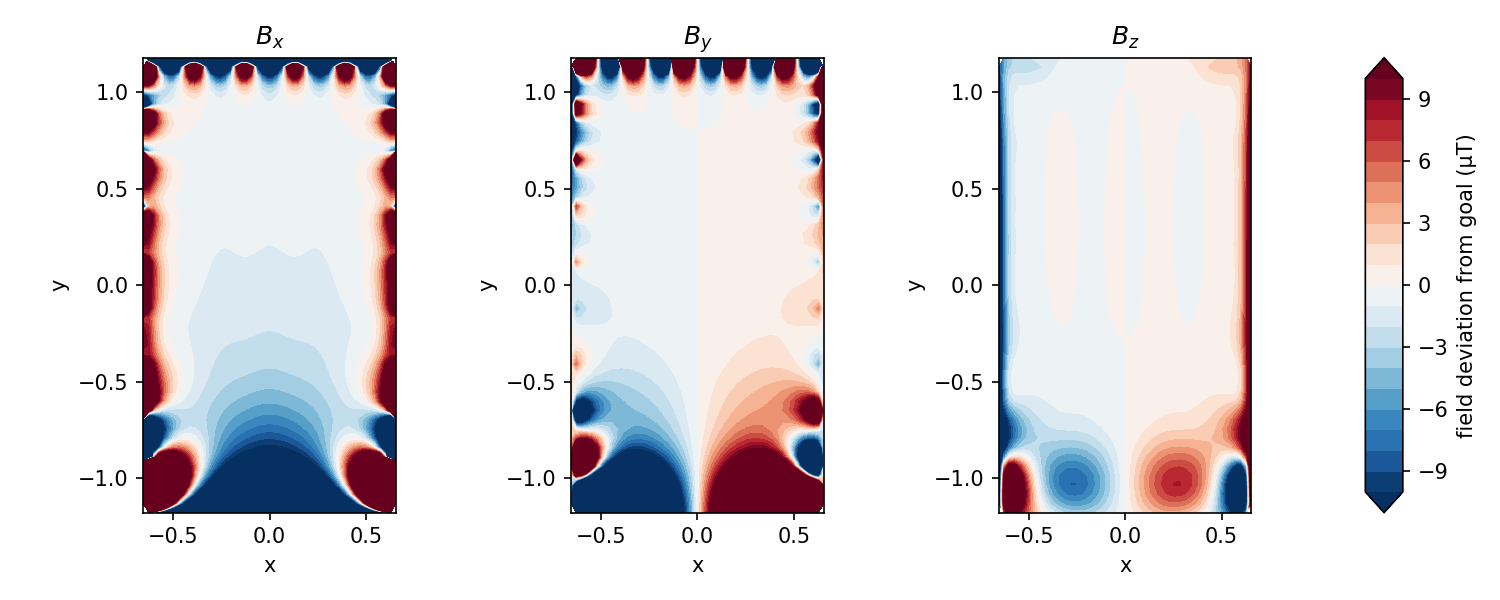
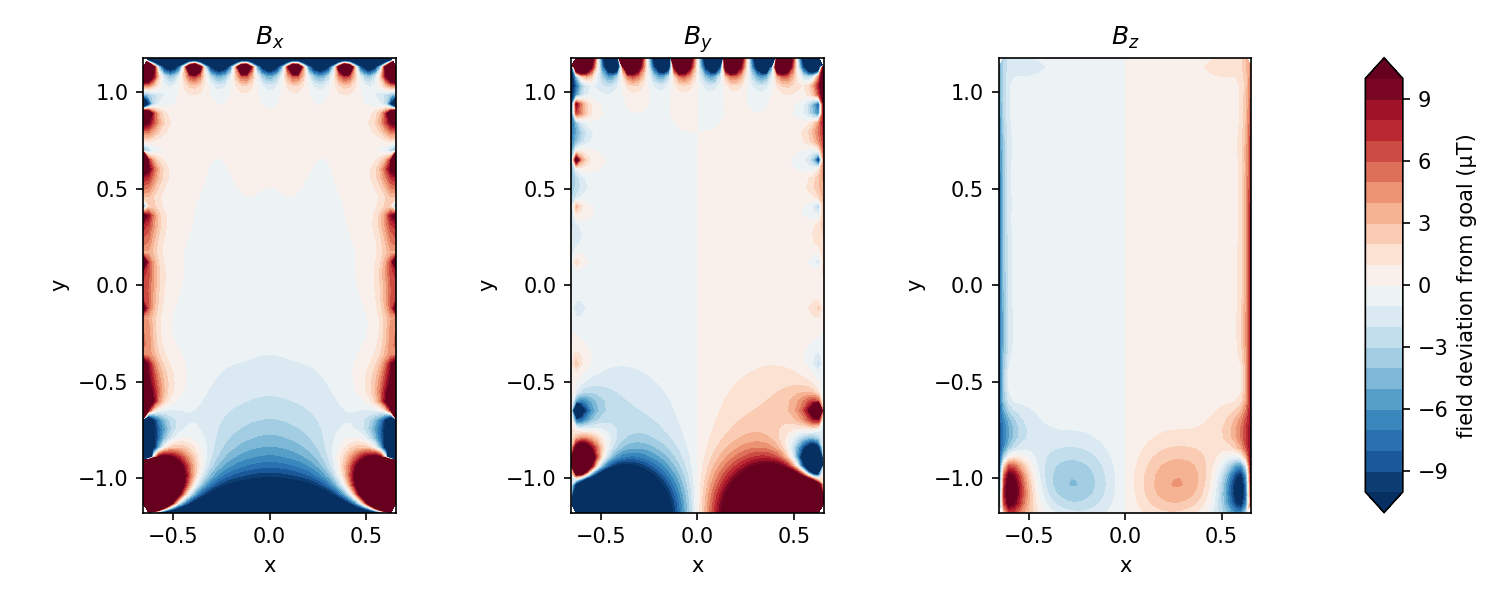
Update the open-design plots and text.

diff --git a/Chapters/sfc_prototype.tex b/Chapters/sfc_prototype.tex
@@ -312,47 +312,68 @@ Aside from the obvious---increasing the bit depth of the DACs---this limit can b
 
 
 \section{Open-design cage}
-The disadvantage of the first-iteration design, pictured in Fig.\,\ref{fig:prototype_photo_inside} was that the cage is fully closed, making putting anything inside, or taking outside, quite a challenge. In particular, one of the areas the active magnetic field compensation system prototype could be used to investigate is the effects of a $\upmu$-metal shield inserted into it.
+The disadvantage of the first-iteration design, pictured in Fig.\,\ref{fig:prototype_photo_inside}, was that the cage was fully closed, making putting anything inside, or taking outside, essentially impossible. In particular, one of the areas the active magnetic field compensation system prototype could be used to investigate is the effects of a $\upmu$-metal shield, which would need to be inserted into it.
 
-Three designs with the inside accessible were considered. In the first, connectors could be built in along edges of one of the faces (twenty, if the face is one of the small ones). To access the inside the connectors would have to be disconnected and then the face removed. The connectors would have to have as much as 30 pins, each connected to at least \SI{1}{\milli\meter} wire. 
-\marginpar{D-subminiature connectors with soldering contact were considered for this purpose. Two per edge.} The process of winding a coil would be much to much.
-Adding more coils would mean exchanging all connectors.
+% \note{Do I really find it necessary to describe the three possibilities that I considered?}
 
-The second design featured a removable face without the need for connectors. The wires laid on one face would be separate from those on the rest of the structure. This would inevitably lead to some effective current cancellation along the edges of the removable face. \note{Explain why}.
+% Three designs with the inside accessible were considered.
+% \marginpar{D-subminiature connectors with soldering contact were considered for this purpose. Two per edge.} The process of winding a coil would be much to much.
+% In the first, connectors could be built in along edges of one of the faces (twenty, if the face is one of the small ones). To access the inside the connectors would have to be disconnected and then the face removed. The connectors would have to have as much as 30 pins, each connected to at least \SI{1}{\milli\meter} thick wire. The main disadvantage of this solution would have been considerable effort in terms of soldering.
+% % Adding more coils would mean exchanging all connectors.
+% The second design would feature a removable face without the need for connectors. The wires laid on one face would be separate from those on the rest of the structure. Along the edge where the face would be separated two cable channels would run in parallel next to each other, one belonging to the removable face. This would inevitably lead to some effective current cancellation along the edges of the removable face. \note{Explain why}.
 
-The third way was to design a system with out wires on one face at all. This solution had the immediate advantage of demonstrating the power of the coil design method. The next iteration is designed with one face (rectangular one, $Y-$) left open. Designed fully following the algorithm.
+% The third way was to design a system with out wires on one face at all. This solution had the immediate advantage of demonstrating the power of the coil design method. The next iteration is designed with one face (rectangular one, $Y-$) left open. Designed fully following the algorithm.
 
-A next improvement are 1st gradient coils. Even in the laboratory homogeneity\ldots bla, bla\ldots
+The solution was to modify a system in way, that on one of the faces there would be no wires at all. As neither the coil design method (Ch.\,\ref{ch:coil_design}) nor its implementation are restricted to regular grids, it could be fully realised within the framework. In the scope of this work coils corresponding to Carthesian harmonic polynomials $n = 1 \ldots 8$ (Tab.\,\ref{tab:coils_carthesian_harmonics}) were designed and the $y$-coil ($n = 2$) was wound and mapped. The face that was left open is a square one, the one to the left in Fig.\,\ref{fig:prototype_photo}.
 
-The calculation with the fiducial volume of\ldots done for homogenous and 1st gradient coils. Fig.\,\ref{fig:prototype_open_design_simulation} presents the sections for\ldots Fig.\,\ref{fig:prototype_open_design_Xcoil_coils} shows the first 22 (out of 64) current loops. \note{All with 1A wires? not much more} The numbers show the number of windings in the 5A, 1A and 0.1A scheme.
+% This solution had the immediate advantage of demonstrating the power of the coil design method. The next iteration is designed with one face (rectangular one, $Y-$) left open. Designed fully following the algorithm.
 
-Then, the Y-coil has been would and mapped. Looks alright!
+\begin{figure}
+  \centering
+  \includegraphics[width=\linewidth]{gfx/prototype/open_design_Ycoil_field_XY_z0_0.png} \\
+  \includegraphics[width=0.45\linewidth,trim={5cm 0 0 0},clip]{gfx/prototype/open_planar_map_Y_Bx.pdf}\quad
+  \includegraphics[width=0.45\linewidth,trim={5cm 0 0 0},clip]{gfx/prototype/open_planar_map_Y_By.pdf}
+  \caption{Top: simulation. Bottom: measured map. Left: the $x$ component of the field. Right: the $y$ component, relative to the reference value of \SI{49.854}{\micro\tesla} as measured in the middle.
+  \note{Make the figures nicely match. It seems both are for 50uT. Maybe even make a direct comparison? Rather not, but at least make the same size and the scales match.}
+  }\label{fig:prototype_open_design_Ycoil_maps}
+\end{figure}
+
+\begin{figure}
+  \centering
+  \includegraphics[width=0.9\linewidth]{gfx/prototype/open_planar_map_Y_By_section.pdf}
+  \caption{The field along the solid and dashed sines in Fig.\,\ref{fig:prototype_open_design_Ycoil_maps}.}\label{fig:prototype_open_design_Ycoil_map_section}
+\end{figure}
+
+The simulation of the field produced by the optimal design of the $y$-coil is presented in the upper part of Fig.\,\ref{fig:prototype_open_design_Ycoil_maps}. On the left-hand side the deviation of the $x$ component from zero is shown, on the right-hand side: one of the $y$ component from \SI{50}{\micro\tesla}. In the bottom of the figure a map of the two components is plotted. Additionally, two sections of the map, along the vertical lines depicted in orange, are presented in Fig.\,\ref{fig:prototype_open_design_Ycoil_map_section}. The dashed line is xxx away from the surface of the coils and corresponds to the edge of the fiducial volume. The design fully meets the specification of \SI{2}{\percent} homogeneity in the fiducial volume.
+
+% and the map of the $y$-coil are presented in Fig.\,\ref{fig:prototype_open_design_Ycoil_maps}. In Fig.\,\ref{fig:prototype_open_design_Ycoil_map_section} the section along the $y$ direction is plotted.
+% Now some thoughts about it. We see, that it behaves exactly as expected. For now the colours are inverted.
+
+\note{It is now a bit weird, that I have a detailed wiring plan for the $x$-coil, but I write more about the $y$-coil (the one I have)}.
 
 \begin{figure}
   \centering
   \includegraphics[width=\linewidth]{gfx/prototype/open_design_Xcoil_field_XY_z0_33.png}
-  \includegraphics[width=\linewidth]{gfx/prototype/open_design_n8coil_field_XY_z0_33.png}
-  \caption{Simulation of the open-design cage. The colour represents the deviation from the target field, for the $x$, $y$ and $z$ components of the field. Section in the XY plane at height $z=\SI{33}{\centi\meter}$ is shown. The open face is on the bottom of the plots. Top: coil designed to produce a homogeneous field along $x$ (left-to-right on the plot). Bottom: $n=8$ gradient (see some table somewhere)\ldots}\label{fig:prototype_open_design_simulation}
+  \includegraphics[width=\linewidth]{gfx/prototype/open_design_n5coil_field_XY_z0_33.png}
+  \caption{Simulation of the open-design cage. The colour represents the deviation from the target field, for the $x$, $y$ and $z$ components of the field. Section in the XY plane at height $z=\SI{33}{\centi\meter}$ is shown. The open face is on the bottom of the plots. Top: coil designed to produce a homogeneous field along $x$ (left-to-right on the plot). Bottom: $n=5$ gradient (see some table somewhere)\ldots}\label{fig:prototype_open_design_simulation}
 \end{figure}
 
 \begin{figure}
   \centering
   \includegraphics[width=\linewidth]{gfx/prototype/open_design_Xcoil_coils.pdf}
-  \caption{X coils, first 22 coils, windings of 5A, 1A and 0.1A\ldots}\label{fig:prototype_open_design_Xcoil_coils}
+  \caption{The first 22 (out of 64) loops of the $x$-coil in the open-design cage. For each loop the the digits indicate the number of \SI{5}{\ampere}, \SI{1}{\ampere} and \SI{0.1}{\ampere} windings (per \SI{50}{\micro\tesla} field, leading zeros are omitted). A half of the cage is flattened out, the other being identical on symmetry grounds. The faces have been coloured to help in orientation.}\label{fig:prototype_open_design_Xcoil_coils}
 \end{figure}
 
-\begin{figure}
-  \centering
-  \includegraphics[width=0.45\linewidth,trim={5cm 0 0 0},clip]{gfx/prototype/open_planar_map_Y_Bx.pdf}\quad
-  \includegraphics[width=0.45\linewidth,trim={5cm 0 0 0},clip]{gfx/prototype/open_planar_map_Y_By.pdf}
-  \caption{Left: the $x$ component of the field. Right: the $y$ component, relative to the reference value of \SI{49.854}{\micro\tesla} as measured in the middle.}\label{fig:prototype_open_design_Ycoil_maps}
-\end{figure}
+Winding further coils was not in the scope of this work. They were, however, designed. The simulated field produced by the optimal designs for the $x$-coil and $n = 5$ (Tab.\,\ref{tab:coils_carthesian_harmonics}) are presented in Fig.\,\ref{fig:prototype_open_design_simulation}. Except the part near the open face (at the bottom of the plots) the field in the volume is reproduced in the whole fiducial volume down to \SI{2}{\percent} (\SI{1}{\micro\tesla} on a \SI{50}{\micro\tesla} field), even for the gradient coil.
+Fig.\,\ref{fig:prototype_open_design_Xcoil_coils} shows the first 22 (out of 64) current loops of the $x$ coil.
+%\note{All with 1A wires? not much more} The numbers show the number of windings in the 5A, 1A and 0.1A scheme.
 
-\begin{figure}
-  \centering
-  \includegraphics[width=0.7\linewidth]{gfx/prototype/open_planar_map_Y_By_section.pdf}
-  \caption{The field along the solid and dashed sines in Fig.\,\ref{fig:prototype_open_design_Ycoil_maps}.}\label{fig:prototype_open_design_Ycoil_map_section}
-\end{figure}
+\note{Here I could mention how inhomogeneous was the field in the lab. I.e.\ how much field was still left when running the homogeneous compensation. This would motivate the need for the linear gradient coils.}
+
+% The calculation with the fiducial volume of\ldots done for homogenous and 1st gradient coils. Fig.\,\ref{fig:prototype_open_design_simulation} presents the sections for\ldots Fig.\,\ref{fig:prototype_open_design_Xcoil_coils} shows the first 22 (out of 64) current loops. \note{All with 1A wires? not much more} The numbers show the number of windings in the 5A, 1A and 0.1A scheme.
+
+
+
 
 \section{n2EDM design}
 
